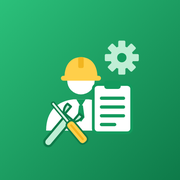
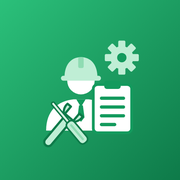
Ícono sin amarillo, solo verdes
Claude-Session: https://claude.ai/code/session_019ZaEwNcRVcSW2gzaJFUxqz

Changed region(s): [[0.3333, 0.3056, 0.5833, 0.4722], [0.3611, 0.6667, 0.5, 0.8056]]

diff --git a/sw.js b/sw.js
@@ -2,7 +2,7 @@
    Estrategia: la red manda. El cache es solo para poder abrir la app sin
    conexion. Asi nadie queda mirando una version vieja despues de un deploy. */
 
-const CACHE = 'mantenimiento-v4';
+const CACHE = 'mantenimiento-v5';
 const BASE = [
   './',
   './index.html',
